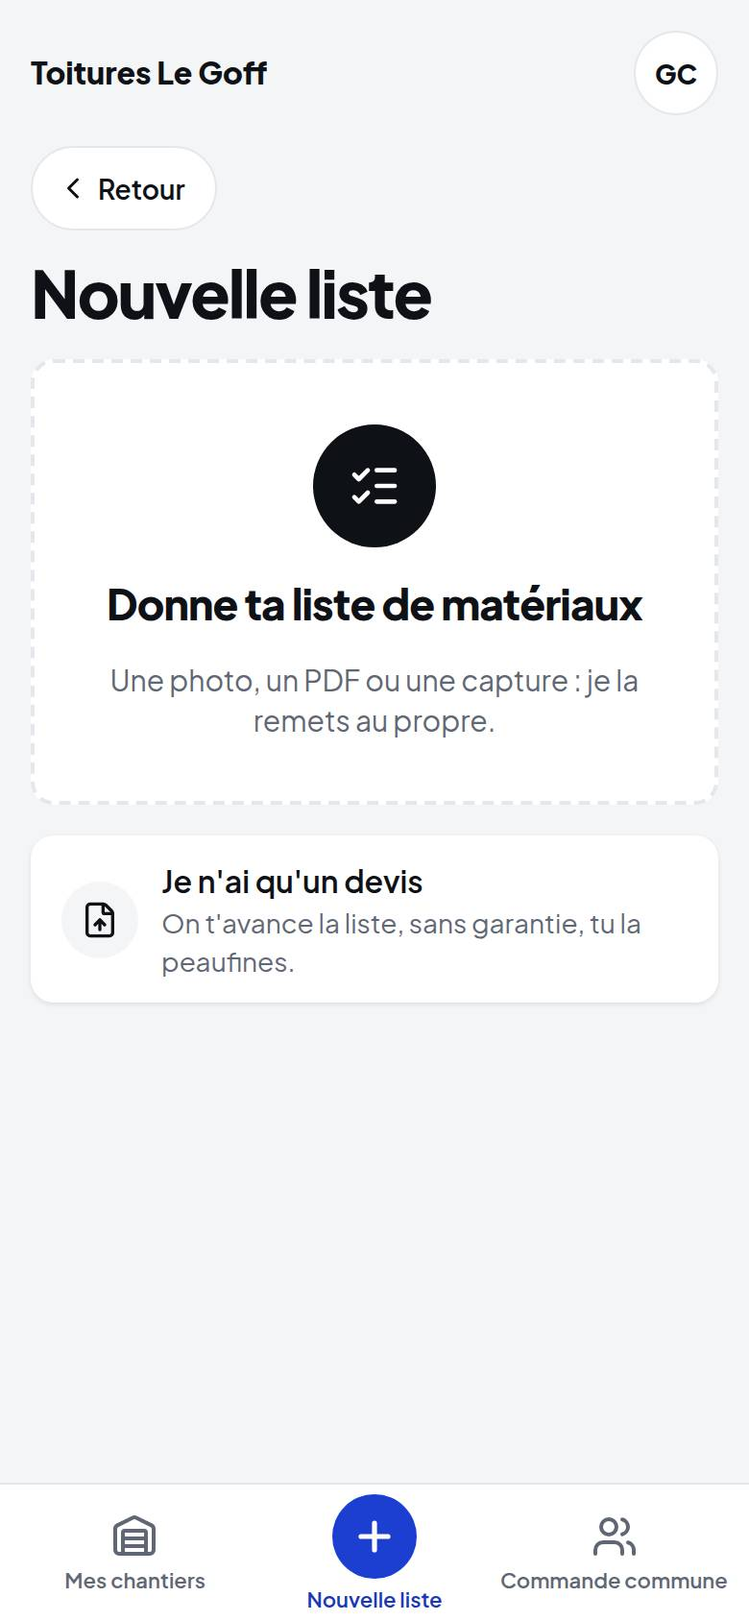
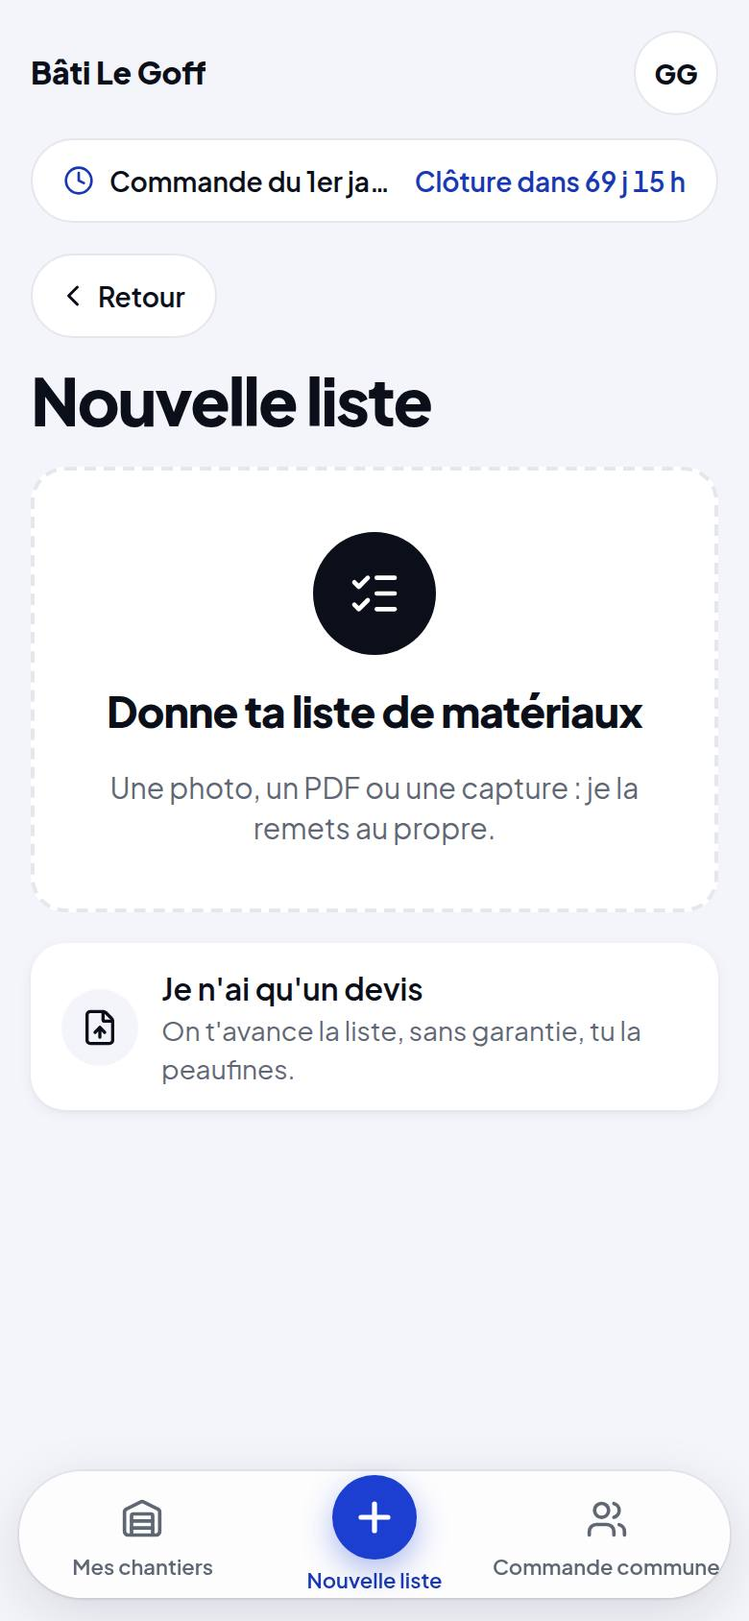
Landing : le nécessaire, neutre sur le métier, captures refaites
Greg, 23 octobre au soir : « trop de texte, laisse le nécessaire » puis
« tu parles encore de couvreur, reste neutre ».

- Six blocs courts : accroche et une phrase, principe et compteur, trois
  étapes en une ligne, partage, un titre et un bouton, une ligne négoces.
  Retirés : « Rassemblons-nous… », l'intro des étapes, la section exemple
  d'ardoise, la section « ensemble », le paragraphe et la ligne des métiers.
- Quatre captures neutres (accueil, nouvelle liste, commande commune, prix
  reçus) faites sur un cycle joué par script avec une liste sans métier ;
  textes alternatifs neutres.
- e2e de la landing adapté ; DECISIONS.

Claude-Session: https://claude.ai/code/session_0188g8PcmvctNcTq82VPRdt3

diff --git a/baticlair/apps/web/src/app/(public)/decouvrir/page.tsx b/baticlair/apps/web/src/app/(public)/decouvrir/page.tsx
@@ -1,11 +1,8 @@
 import type { Metadata } from "next";
 import Link from "next/link";
 import { CLE_DEMO_VUE, DemoGuidee } from "@/components/demo-guidee";
-import { EXEMPLE } from "@/lib/exemple";
 import { ButtonLink } from "@/components/ui";
 import { LiensLegaux } from "@/components/legal";
-import { PHOTOS_LANDING, Visuel, type EmplacementPhoto } from "@/components/landing-illustrations";
-import { NOM } from "@/lib/nom";
 import { CompteurInscrits, InviterCollegue } from "@/components/inviter";
 
 /**
@@ -15,7 +12,7 @@ import { CompteurInscrits, InviterCollegue } from "@/components/inviter";
 export const dynamic = "force-dynamic";
 
 export const metadata: Metadata = {
-  title: "BatiClair, la commande commune des couvreurs",
+  title: "BatiClair, la commande commune des artisans du bâtiment",
   description: "Marre de te faire enfumer sur le prix de tes matériaux ? Rassemblons-nous et mettons nos forces en commun pour négocier les meilleurs prix.",
 };
 
@@ -29,6 +26,9 @@ export const metadata: Metadata = {
  * neutres pour les photos de chantier de Greg (`PHOTOS_LANDING`, une ligne par photo). Une seule liste fictive sur toute
  * la page, celle de la démo (`EXEMPLE`) : mêmes articles, mêmes chiffres. Aucune ressource extérieure, aucun script.
  *
+ * MOINS DE TEXTE (Greg, 23 octobre au soir : « trop de texte, laisse le nécessaire ») : l'accroche et une phrase, le
+ * principe et le compteur, trois étapes en une ligne chacune, le partage, un titre et un bouton, une ligne pour les
+ * négoces. L'exemple de liste et la section « ensemble » sont retirés (redondants avec les étapes).
  * TON FUN ET DIRECT (Greg, 22 octobre) : « fun dans les mots, pro dans le visuel ». « Enfumer » vise le prix, jamais une
  * personne : les négoces lisent aussi la page, et ce sont eux qui répondent. Le compteur d'inscrits est le vrai chiffre de la
  * base (masqué sous 10), le partage passe par WhatsApp, SMS ou le lien copié (`InviterCollegue`). Gratuit pour l'artisan.
@@ -36,25 +36,18 @@ export const metadata: Metadata = {
 const ETAPES = [
   {
     titre: "1. Dépose ta liste avant la clôture",
-    texte: "Une photo, un bon, un PDF ou une capture. Mets seulement ce que tu es sûr de commander.",
-    image: { src: "/landing/capture-entree.jpg", alt: "L'écran « Donne ta liste de matériaux » de BatiClair" },
+    texte: "Une photo, un bon ou un PDF.",
+    image: { src: "/landing/capture-entree.jpg", alt: "L'écran « Nouvelle liste » de BatiClair" },
   },
   {
     titre: "2. On envoie tout le volume aux négoces",
-    texte: "Les listes de la quinzaine sont additionnées : une seule grille pour tous les négoces de la région.",
-    image: { src: "/landing/capture-preciser.jpg", alt: "Une ligne « Ardoise naturelle 32×22 » à préciser : origine et choix en boutons" },
+    texte: "Une seule grille pour tous les négoces de ta région.",
+    image: { src: "/landing/capture-commande.jpg", alt: "L'écran « Commande commune » de BatiClair : la clôture dans quelques jours, ta liste dans la commande" },
   },
-  { titre: "3. Tu vois le meilleur prix et tu commandes si ça te plaît", texte: "Ton prix livré chez chaque négoce, le moins cher en avant. Sans engagement.", image: null },
+  { titre: "3. Tu vois le meilleur prix et tu commandes si ça te plaît", texte: "Ton prix livré chez chaque négoce. Sans engagement.", image: { src: "/landing/capture-prix.jpg", alt: "L'écran des prix reçus dans BatiClair : ton prix livré chez chaque négoce, le moins cher coché" } },
 ] as const;
 
-const GROUPE = [
-  { titre: "Une commande toutes les deux semaines", texte: "Tu déposes ta liste jusqu'à la clôture, le 1er et le 15 à midi. Personne ne voit ton nom ni tes chantiers." },
-  { titre: "Les négoces chiffrent tout le volume", texte: "Un prix par article, le même pour tous, ferme pour la commande. Ils ont cinq jours ouvrés." },
-  { titre: "Le moins cher pour toi, livraison comprise", texte: "Chaque grille est appliquée à ta liste. Tu choisis, ou tu ne commandes pas." },
-];
 
-const COMMANDE = EXEMPLE.commande;
-const PHRASE_COMMANDE = `${COMMANDE.tout}. ${COMMANDE.cloture}.`;
 
 /**
  * Le cadre d'un iPhone propre autour d'une VRAIE capture de l'app (780 × 1688, prise sur iPhone après la passe UI/UX) :
@@ -72,31 +65,7 @@ function Telephone({ src, alt, priorite = false, className = "" }: { src: string
   );
 }
 
-/**
- * Un emplacement de photo de chantier : rien tant que la photo n'est pas fournie (Greg, 23 octobre : « pas normal
- * d'avoir des zones blanches »), la photo recadrée dès qu'elle est dans `PHOTOS_LANDING`.
- */
-function Photo({ emplacement, className }: { emplacement: EmplacementPhoto; className: string }) {
-  if (!PHOTOS_LANDING[emplacement]) return null;
-  return (
-    <Visuel emplacement={emplacement} className={`${className} rounded-xl`}>
-      <span aria-hidden="true" data-photo={emplacement} />
-    </Visuel>
-  );
-}
-const avecPhoto = (emplacement: EmplacementPhoto) => Boolean(PHOTOS_LANDING[emplacement]);
 
-/** Le compteur de la commande commune, tel que l'artisan le voit (données de la démo) : façon Qonto, un chiffre, une phrase. */
-function Compteur() {
-  return (
-    <div role="img" aria-label={PHRASE_COMMANDE} className="flex h-full flex-col justify-center gap-4 rounded-xl border border-line bg-surface p-6">
-      <p className="text-[13px] font-semibold text-muted">{`Exemple · Commande ${COMMANDE.de}`}</p>
-      <p className="text-[32px] leading-none font-extrabold tracking-[-0.03em] text-accent-text">{COMMANDE.cloture}</p>
-      <p className="text-[16px] leading-snug font-semibold">{COMMANDE.tout}</p>
-      <p className="border-t border-line pt-4 text-[14px] text-muted">{COMMANDE.toi}</p>
-    </div>
-  );
-}
 
 const BOUTON = "min-h-13 px-8 text-[16px]";
 
@@ -105,7 +74,6 @@ const REVEAL_SCRIPT = `(function(){try{if(matchMedia("(prefers-reduced-motion: r
 
 export default function BienvenuePage() {
   const h2 = "text-[34px] leading-[1.04] font-extrabold tracking-[-0.035em] sm:text-[48px]";
-  const intro = "max-w-[52ch] text-[18px] leading-relaxed text-muted";
   return (
     <main className="mx-auto flex w-full max-w-6xl flex-col gap-24 px-4 pt-6 pb-16 sm:gap-32 sm:px-6 sm:pt-12 lg:gap-40">
       {/* Plan 2, bloc 3 : au premier lancement, la démo guidée (trois écrans, « Passer ») vient avant l'accroche. Plan
@@ -121,14 +89,11 @@ export default function BienvenuePage() {
       {/* L'accroche (façon Stripe) : la promesse à gauche, en très grand ; l'app dans un iPhone à droite. */}
       <section aria-labelledby="accroche" className="grid grid-cols-1 items-center gap-12 lg:grid-cols-12 lg:gap-8">
         <div className="flex flex-col gap-8 lg:col-span-7">
-          <p className="text-[14px] font-semibold text-accent-text">Pour les couvreurs des Côtes-d&apos;Armor</p>
+          <p className="text-[14px] font-semibold text-accent-text">Pour les artisans du bâtiment, Côtes-d&apos;Armor d&apos;abord</p>
           <h1 id="accroche" className="max-w-[16ch] text-[44px] leading-[1.0] font-extrabold tracking-[-0.045em] sm:text-[64px]">
             Marre de te faire enfumer sur le prix de tes matériaux ?
           </h1>
-          <div className="flex flex-col gap-4">
-            <p className="max-w-[44ch] text-[18px] leading-relaxed text-muted sm:text-[20px]">Rassemblons-nous et mettons nos forces en commun pour négocier les meilleurs prix.</p>
-            <p className="max-w-[44ch] text-[18px] leading-relaxed font-semibold sm:text-[20px]">Une commande toutes les deux semaines avec les couvreurs de ta région.</p>
-          </div>
+          <p className="max-w-[40ch] text-[18px] leading-relaxed text-muted sm:text-[20px]">Une commande toutes les deux semaines avec les artisans de ton métier, dans ta région.</p>
           <div className="flex flex-wrap items-center gap-x-8 gap-y-4">
             <ButtonLink href="/inscription" variant="accent" className={BOUTON}>
               Je rejoins le mouvement
@@ -140,7 +105,7 @@ export default function BienvenuePage() {
           <p className="text-[15px] font-semibold text-muted">Gratuit pour l&apos;artisan. Sans engagement.</p>
         </div>
         <div className="flex justify-center lg:col-span-5 lg:justify-end">
-          <Telephone src="/landing/capture-liste.jpg" alt="Une liste de couverture dans BatiClair : ardoise, crochets, liteaux, écran, faîtage zinc, chaque ligne avec sa quantité" priorite className="w-[280px] sm:w-[320px]" />
+          <Telephone src="/landing/capture-accueil.jpg" alt="L'accueil de BatiClair : la commande commune en cours et le temps qui reste avant la clôture" priorite className="w-[280px] sm:w-[320px]" />
         </div>
       </section>
 
@@ -158,13 +123,12 @@ export default function BienvenuePage() {
           <h2 id="comment-titre" className={h2}>
             Comment ça marche
           </h2>
-          <p className={intro}>Trois étapes. Le reste, c&apos;est nous : on additionne les listes, on interroge les négoces, on compare.</p>
         </div>
         <ol className="-mx-4 flex snap-x snap-mandatory gap-6 overflow-x-auto px-4 pb-2 sm:mx-0 sm:grid sm:grid-cols-3 sm:gap-8 sm:overflow-visible sm:px-0">
           {ETAPES.map((e, i) => (
             <li key={e.titre} data-reveal className="flex w-[80vw] max-w-[340px] shrink-0 snap-center flex-col gap-6 sm:w-auto sm:max-w-none">
               <div className="flex min-h-[560px] items-center justify-center rounded-xl bg-ground px-8 py-8">
-                {e.image ? <Telephone src={e.image.src} alt={e.image.alt} className="w-full max-w-[240px]" /> : <Compteur />}
+                <Telephone src={e.image.src} alt={e.image.alt} className="w-full max-w-[240px]" />
               </div>
               <div className="flex flex-col gap-2">
                 <p className="text-[13px] font-semibold text-accent-text tabular-nums">0{i + 1}</p>
@@ -176,83 +140,23 @@ export default function BienvenuePage() {
         </ol>
       </section>
 
-      {/* Ce que commande un couvreur : la liste de l'exemple, telle qu'elle part au négoce. */}
-      <section aria-labelledby="fournitures" data-reveal className="grid grid-cols-1 gap-10 lg:grid-cols-12 lg:gap-12">
-        <div className={`flex flex-col gap-8 ${avecPhoto("ardoise") ? "lg:col-span-7" : "lg:col-span-8"}`}>
-          <div className="flex flex-col gap-4">
-            <h2 id="fournitures" className={h2}>
-              Ardoise, zinc, liteaux, écran
-            </h2>
-            <p className={intro}>Chaque ligne part au négoce comme tu la lui dirais au comptoir.</p>
-          </div>
-          <ul aria-label="Exemple de liste de couverture" className="flex flex-col divide-y divide-line border-y border-line">
-            {EXEMPLE.liste.map((l) => (
-              <li key={l.designation} className="flex items-baseline justify-between gap-4 py-4">
-                <span className="text-[16px] font-semibold">{l.designation}</span>
-                <span className="shrink-0 text-[15px] text-muted tabular-nums">{l.quantite}</span>
-              </li>
-            ))}
-          </ul>
-        </div>
-        {avecPhoto("ardoise") ? (
-          <div className="lg:col-span-5">
-            <Photo emplacement="ardoise" className="aspect-[4/3] w-full lg:aspect-auto lg:h-full" />
-          </div>
-        ) : null}
-      </section>
-
-      {/* La commande commune : texte et compteur, sur le fond gris 1 (le seul aplat de la page avec la section noire). */}
-      <section aria-labelledby="groupe" data-reveal className="rounded-xl bg-ground p-6 sm:p-12 lg:p-16">
-        <div className="grid grid-cols-1 gap-10 lg:grid-cols-12 lg:gap-12">
-          <div className="flex flex-col gap-8 lg:col-span-7">
-            <div className="flex flex-col gap-4">
-              <p className="text-[14px] font-semibold text-accent-text">{NOM}</p>
-              <h2 id="groupe" className={`${h2} max-w-[18ch]`}>
-                Les couvreurs de ton secteur, ensemble
-              </h2>
-              <p className={intro}>Plus on est nombreux sur la même ligne, plus les négoces se battent pour la livrer. Tu commandes sur ton compte, comme d&apos;habitude.</p>
-            </div>
-            <ol className="flex flex-col divide-y divide-line">
-              {GROUPE.map((e, i) => (
-                <li key={e.titre} className="flex gap-6 py-6 first:pt-0 last:pb-0">
-                  <span className="pt-1 text-[14px] font-semibold text-accent-text tabular-nums" aria-hidden="true">
-                    0{i + 1}
-                  </span>
-                  <div className="flex flex-col gap-1">
-                    <h3 className="text-[18px] leading-snug font-extrabold tracking-[-0.01em]">{e.titre}</h3>
-                    <p className="text-[16px] leading-relaxed text-muted">{e.texte}</p>
-                  </div>
-                </li>
-              ))}
-            </ol>
-          </div>
-          <div className="flex flex-col gap-6 lg:col-span-5">
-            <Compteur />
-            <Photo emplacement="chantier" className="aspect-[16/10] w-full" />
-          </div>
-        </div>
-      </section>
-
       {/* Le partage : une vraie section, pleine et sombre (façon Revolut). Le même bloc vit dans l'app. */}
       <div data-reveal>
-        <InviterCollegue grand titre="L'union fait la force : fais venir tes collègues" texte="Plus on est nombreux dans le secteur, plus les prix baissent. Envoie-leur le lien en deux secondes." />
+        <InviterCollegue grand titre="Fais venir tes collègues" texte="Plus on est nombreux, plus les prix baissent." />
       </div>
 
       <section aria-labelledby="commencer" data-reveal className="flex flex-col items-start gap-8 border-t border-line pt-16 sm:items-center sm:pt-24 sm:text-center">
         <h2 id="commencer" className="max-w-[18ch] text-[40px] leading-[1.02] font-extrabold tracking-[-0.04em] sm:text-[56px]">
-          Rejoins les couvreurs du secteur
+          Rejoins les artisans du secteur
         </h2>
-        <p className="max-w-[44ch] text-[18px] leading-relaxed text-muted">Un compte, une photo de ta liste, et les négoces de ton secteur se mettent au travail. Gratuit pour l&apos;artisan.</p>
         <ButtonLink href="/inscription" variant="accent" className={BOUTON}>
           Je rejoins le mouvement
         </ButtonLink>
-        {/* Tous les métiers restent ouverts (nouveau cap) : une ligne. */}
-        <p className="text-[15px] text-muted">Aussi pour la charpente, la maçonnerie, l&apos;isolation…</p>
       </section>
 
       {/* Rassurant pour les négoces : ils lisent aussi la page, et ce sont eux qui répondent. */}
       <p className="text-center text-[15px] leading-relaxed text-muted">
-        <span className="font-semibold text-ink">Négoces :</span> des commandes communes, des volumes sûrs. Répondez aux demandes, on vous apporte les clients.
+        <span className="font-semibold text-ink">Négoces :</span> des volumes sûrs, des clients en plus. Répondez aux grilles.
       </p>
 
       <footer className="flex flex-col gap-6 border-t border-line pt-10 text-[13px] leading-relaxed text-muted">

diff --git a/baticlair/apps/web/e2e/parcours-artisan.spec.ts b/baticlair/apps/web/e2e/parcours-artisan.spec.ts
@@ -2373,13 +2373,13 @@ test("Mets ton négoce dans la boucle (Greg, 23 octobre) : un e-mail, un bouton,
   await expect(ligne).toContainText("Ton négoce negoce-du-ponant.fr est dans la boucle : il recevra la commande d");
   const prevenir = bloc.getByRole("group", { name: "Prévenir negoce-du-ponant.fr" });
   // Le lien du message est l'invitation du négoce (espace négoce, 23 octobre) : `/negoce/rejoindre/<jeton>`, jamais le nom de l'artisan.
-  const message = await prevenir.getByText(/^Bonjour, je passe par BatiClair pour commander mes matériaux groupés avec d'autres couvreurs\. Vous pouvez chiffrer tout le volume de la commande ici : /).textContent();
+  const message = await prevenir.getByText(/^Bonjour, je passe par BatiClair pour commander mes matériaux groupés avec d'autres artisans de mon métier\. Vous pouvez chiffrer tout le volume de la commande ici : /).textContent();
   expect(message).toMatch(new RegExp(`ici : ${new URL(page.url()).origin}/negoce/rejoindre/[A-Za-z0-9_.-]+$`));
   expect(message).not.toContain("Toitures Martin");
   await expect(prevenir.getByRole("link", { name: "Envoyer sur WhatsApp" })).toHaveAttribute("href", `https://wa.me/?text=${encodeURIComponent(message!)}`);
   await expect(prevenir.getByRole("link", { name: "Envoyer par SMS" })).toHaveAttribute("href", `sms:?&body=${encodeURIComponent(message!)}`);
   // Le négoce a reçu son invitation, vouvoyée, sans le nom de l'artisan.
-  await expect.poll(async () => (await emailsVers(page, email.toLowerCase())).map((m) => m.subject)).toContainEqual("Un regroupement de couvreurs vous a ajouté à la Commande commune : créez votre accès");
+  await expect.poll(async () => (await emailsVers(page, email.toLowerCase())).map((m) => m.subject)).toContainEqual("Un regroupement d'artisans vous a ajouté à la Commande commune : créez votre accès");
   expect((await emailsVers(page, email.toLowerCase())).map((m) => m.text).join("\n")).not.toContain("Toitures Martin");
   await expect(prevenir.getByRole("button", { name: "Copier le message" })).toBeVisible();
   // Rappuyer avec le même e-mail (autre casse) : toujours un seul négoce.
@@ -2431,28 +2431,24 @@ test("La page d'accueil publique : un visiteur la voit à la racine, un artisan 
   await page.getByRole("button", { name: "Passer" }).click();
   // Landing du 22 octobre (Greg) : ton fun et direct, visuel pro ; « enfumer » vise le prix ; le principe en une phrase ;
   // trois étapes ; gratuit pour l'artisan ; les autres métiers en une ligne ; une ligne pour les négoces. Rien d'extérieur.
-  await expect(page.getByText("Rassemblons-nous et mettons nos forces en commun pour négocier les meilleurs prix.")).toBeVisible();
   await expect(page.getByRole("heading", { name: "Plus on est nombreux, plus on pèse face aux négoces." })).toBeVisible();
   await expect(page.getByRole("heading", { name: "Comment ça marche" })).toBeVisible();
-  await expect(page.getByText("Une commande toutes les deux semaines avec les couvreurs de ta région.")).toBeVisible();
+  await expect(page.getByText("Une commande toutes les deux semaines avec les artisans de ton métier, dans ta région.")).toBeVisible();
   for (const etape of ["1. Dépose ta liste avant la clôture", "2. On envoie tout le volume aux négoces", "3. Tu vois le meilleur prix et tu commandes si ça te plaît"]) {
     await expect(page.getByRole("heading", { name: etape })).toBeVisible();
   }
   // Registre pro (Greg, 22 octobre) : de vraies captures de l'app, aucun dessin ; une seule liste fictive, mêmes chiffres partout.
-  for (const image of ["L'écran « Donne ta liste de matériaux » de BatiClair", /^Une ligne « Ardoise naturelle 32×22 » à préciser/, "Toute la commande du 1er novembre : 52 palettes d'ardoises 32×22, 6 000 m de liteaux. Clôture dans 9 j."]) {
+  for (const image of ["L'écran « Nouvelle liste » de BatiClair", /^L'écran « Commande commune » de BatiClair/, /^L'écran des prix reçus dans BatiClair/]) {
     await expect(page.getByRole("region", { name: "Comment ça marche" }).getByRole("img", { name: image })).toBeVisible();
   }
-  await expect(page.getByRole("list", { name: "Exemple de liste de couverture" })).toContainText("Ardoise naturelle 32×22 Espagne 1er choix2 760 pièces");
   await expect(page.getByText(/tuile/i)).toHaveCount(0);
   await expect(page.locator("main svg")).toHaveCount(0);
-  await expect(page.getByRole("heading", { name: "Les couvreurs de ton secteur, ensemble" })).toBeVisible();
-  await expect(page.getByText("Aussi pour la charpente, la maçonnerie, l'isolation…")).toBeVisible();
   await expect(page.getByText(/2 %|abonnement/)).toHaveCount(0);
   await expect(page.getByText("Gratuit pour l'artisan. Sans engagement.")).toBeVisible();
   await expect(page.getByRole("link", { name: "Je rejoins le mouvement" })).toHaveCount(2);
-  await expect(page.getByText("des commandes communes, des volumes sûrs. Répondez aux demandes, on vous apporte les clients.")).toBeVisible();
+  await expect(page.getByText("des volumes sûrs, des clients en plus. Répondez aux grilles.")).toBeVisible();
   // Le partage : WhatsApp et SMS avec le message prérempli, et le lien à copier.
-  const partage = page.getByRole("region", { name: "L'union fait la force : fais venir tes collègues" });
+  const partage = page.getByRole("region", { name: "Fais venir tes collègues" });
   const message = /^Je me suis inscrit sur BatiClair, on regroupe nos commandes de matériaux pour payer moins cher\. Plus on est nombreux, plus on négocie\. Rejoins-nous : http/;
   await expect(partage.getByText(message)).toBeVisible();
   const whatsapp = decodeURIComponent((await partage.getByRole("link", { name: "Envoyer sur WhatsApp" }).getAttribute("href"))!.replace(/^https:\/\/wa\.me\/\?text=/, ""));
@@ -2460,9 +2456,9 @@ test("La page d'accueil publique : un visiteur la voit à la racine, un artisan 
   expect(await partage.getByRole("link", { name: "Envoyer par SMS" }).getAttribute("href")).toMatch(/^sms:\?&body=Je%20me%20suis%20inscrit/);
   await expect(partage.getByRole("button", { name: "Copier le lien" })).toBeVisible();
   // Le compteur d'inscrits : le vrai chiffre de la base (test API), masqué sous 10 ; jamais un chiffre inventé.
-  const compteur = (await (await page.request.get("/v1/public/compteur")).json()) as { couvreurs: number | null };
-  if (compteur.couvreurs === null) await expect(page.getByText(/couvreurs déjà inscrits/)).toHaveCount(0);
-  else await expect(page.getByRole("status", { name: `${compteur.couvreurs} couvreurs déjà inscrits dans les Côtes-d'Armor` })).toBeVisible();
+  const compteur = (await (await page.request.get("/v1/public/compteur")).json()) as { artisans: number | null };
+  if (compteur.artisans === null) await expect(page.getByText(/artisans déjà inscrits/)).toHaveCount(0);
+  else await expect(page.getByRole("status", { name: `${compteur.artisans} artisans déjà inscrits dans les Côtes-d'Armor` })).toBeVisible();
   await expect(page.getByText(/BATI INVEST, SARL, SIRET 910 796 325 00017/)).toBeVisible();
   await expect(page.getByRole("link", { name: "Confidentialité" })).toHaveAttribute("href", "/confidentialite");
   const externes = await page.evaluate(() => [...document.querySelectorAll("script[src], img, link[rel=stylesheet], iframe")].map((e) => (e as HTMLElement).getAttribute("src") ?? (e as HTMLElement).getAttribute("href") ?? "").filter((u) => /^https?:\/\//.test(u)));
@@ -2877,7 +2873,7 @@ async function listePrete(page: Page, adresse: string, lignes: { libelle: string
 async function ajouterAuMois(page: Page, projectId: string, nature: "Un chantier signé" | "Du stock"): Promise<void> {
   await page.goto(`/chantiers/${projectId}`);
   const bloc = page.getByRole("region", { name: /^Commande commune d/ });
-  await expect(bloc.getByText("Une commande toutes les deux semaines avec les couvreurs de ta région.")).toBeVisible();
+  await expect(bloc.getByText("Une commande toutes les deux semaines avec les artisans de ta région.")).toBeVisible();
   await expect(bloc.getByText(/^Clôture dans \d+ j/)).toBeVisible();
   await bloc.getByRole("button", { name: /^Ajouter à la commande d/ }).click();
   const list = page.getByRole("region", { name: "Liste des fournitures" });
@@ -2905,7 +2901,7 @@ async function tacheDuMois(page: Page, maintenant: string): Promise<Record<strin
  */
 async function accesNegoceCree(browser: Browser, page: Page, email: string, enseigne: string, depot: string, livraison: [string, string]) {
   const mail = (await emailsVers(page, email)).filter((m) => /\/negoce\/rejoindre\//.test(m.text)).at(-1)!;
-  expect(mail.subject).toBe("Un regroupement de couvreurs vous a ajouté à la Commande commune : créez votre accès");
+  expect(mail.subject).toBe("Un regroupement d'artisans vous a ajouté à la Commande commune : créez votre accès");
   expect(mail.text).toContain("Un artisan de votre secteur (22) vous a ajouté");
   expect(mail.text).not.toMatch(/Toitures [ABC]/);
   const lien = /https?:\/\/[^\s]+\/negoce\/rejoindre\/[A-Za-z0-9_.-]+/.exec(mail.text)![0]!.replace(/^https?:\/\/[^/]+/, "");

diff --git a/baticlair/docs/DECISIONS.md b/baticlair/docs/DECISIONS.md
@@ -88,3 +88,6 @@ Greg tranche après coup. Une ligne par décision : date, question, choix, pourq
 | 2026-10-23 | Greg : espace négoce autonome (invitation, inscription, abonnement à la zone, dépôts et paliers, confidentialité, prix fermes, grille garantie 30 jours, conditions, admin). | Modèle : `CompteNegoce` (e-mail, SIRET, enseigne, téléphone, paliers, conditions acceptées et leur version, désabonnement), `DepotNegoce` (1 à n, géocodés), une ligne `Negoce` par département = un abonnement (`compteId`, `stopLe`), `GrilleNegoce.nonGarantis` et `livraison` figée (dépôts, paliers, distance du dépôt le plus proche à chaque chantier), `CycleCommande.retenuId` et `garantieJusquau`, `CommandeGarantie`. Domaine `espace-negoce.ts` ; API `EspaceNegoceService` (`/v1/negoce/*`), jetons HMAC `jetons-negoce.ts` ; web `/negoce`, `/negoce/rejoindre/<jeton>`, `/negoce/connexion`, `/negoce/conditions`, `/negoce/desabonner/<jeton>`. Migration `20261023150000_espace_negoce` : les anciennes livraisons (`depart`, `francoKm`, `prixAuDela`) deviennent un dépôt et un palier unique jusqu'à 1 000 km. | Greg, 23 octobre : « je n'interviens jamais entre artisan et négoce ». Rien n'est supprimé : l'ancien lot (`lots`) garde ses pages. |
 | 2026-10-23 | Espace négoce — mes choix, à trancher si besoin. | (1) Un dépôt de grille exige un compte inscrit (dépôts et paliers) : sans lui, la page de grille montre « Créez votre accès pour chiffrer » et l'API répond 409 `inscription_requise` ; l'invité jamais inscrit reçoit le rappel de clôture trois cycles au plus. (2) Distance inconnue (adresse non géocodée) : le dernier palier payant s'applique ; sans palier payant, le négoce ne livre pas cette zone. (3) Départements cochés = ceux des dépôts (code postal) plus ceux où un artisan l'a ajouté ; pas de calcul par distance maximale. (4) Un négoce « ne livre pas ta zone » reste listé (barré, non choisissable) et passe derrière au classement. (5) Le SIRET est cherché dans la base Sirene locale puis vérifié à l'INSEE quand l'INSEE est branché ; laissé vide, l'inscription passe (dédoublonnage par e-mail). (6) L'e-mail d'invitation part au plus une fois par semaine par négoce, même si trente artisans l'ajoutent ; le lien, lui, se régénère à chaque ajout. (7) La recommande sur grille garantie ne crée pas de chantier : le bon part, la commande est listée sous le bloc garanti ; l'adresse de livraison est saisie à la commande. (8) L'ancien e-mail « Regroupement artisans » aux négoces sans compte est remplacé par l'invitation. (9) La garantie court 30 jours après la publication des résultats, sur les seules lignes garanties de la grille retenue ; elle vaut aussi pour un artisan qui n'avait rien déposé. (10) Le message « Mets ton négoce dans la boucle » porte le lien d'invitation (le même pour tous les artisans), plus la racine du site. | Chaque point est un choix fait seul faute de réponse ; la liste est dans le rapport. |
 | 2026-10-23 | Greg, 18 h 52, capture iPhone de l'accueil : « ça manque de couleur, de contraste ; quelque chose de 2026, tendance, classe et épuré ». Une première proposition (carte bleu nuit) refusée : « inspire-toi de choses tendance et modernes ». | Ce que font Revolut, Lydia, Alan et iOS 26 en 2026 : du clair, des teintes pastel en tuiles (« bento »), de grands rayons, une barre flottante en verre. Donc : quatre teintes pastel (ciel, lavande, menthe, pêche) pour les tuiles et les pastilles, un halo pastel très doux sur la carte héros (chrono 56 px, pilule « Clôture dans », étapes sur pastilles colorées, « Toi » en menthe, « Toute la commande » en pêche), « Mets ton négoce dans la boucle » en lavande, rayons 18 / 24 px, fond très légèrement bleuté, barre du bas en capsule translucide floutée à 12 px du bas avec l'onglet actif sur une pastille. Une seule couleur de marque toujours ; les teintes ne disent jamais un état. | Les tests ne changent pas : la barre reste `position: fixed; bottom: 0` (la marge est dedans), les régions et les textes sont les mêmes. Le halo est la seule entorse à « zéro dégradé » (23 octobre matin, qui visait les boutons) : il reste dans une carte, jamais sur un bouton. |
+| 2026-10-23 | Greg, au soir : « Enlève tout ça, on va faire en multimétier. Y a peut-être que la pub que j'orienterai pour quelques métiers comme couvreur. Vu qu'on ne promet plus un quantitatif précis, ça peut faire le job. » | Plus rien de propre aux couvreurs dans la commande commune : la commande d'une entreprise est celle de la famille de son métier (`familleDeLEntreprise` : couverture pour un couvreur, électricité pour un électricien… ; couverture sans métier connu) dans son département ; un négoce « mis dans la boucle » entre dans les familles du métier de l'artisan ; un compte négoce hérite des familles de ses lignes ; les textes disent « artisans » (app, mails, landing : « Pour les artisans du bâtiment, Côtes-d'Armor d'abord », « avec les artisans de ton métier, dans ta région », « Les artisans de ton secteur, ensemble ») ; le compteur public compte toutes les entreprises du 22, tous métiers (`artisans`). Le design pastel reste. | Mes choix : la famille vient du métier déclaré au compte (pas des mots de la liste) pour l'affichage, le dépôt garde la famille lue sur chaque ligne ; sans métier, couverture. L'exemple de liste de la landing (ardoise, liteaux) reste un exemple de couvreur, à remplacer quand la pub visera un autre métier. |
+| 2026-10-23 | Greg, au soir : « trop de texte sur la landing, laisse le nécessaire ». | La landing tient en six blocs courts : l'accroche et une phrase (« Une commande toutes les deux semaines avec les artisans de ton métier, dans ta région. »), le principe en une ligne et le compteur, trois étapes en une ligne chacune, le partage (« Fais venir tes collègues »), un titre et un bouton, une ligne pour les négoces. Retirés : le paragraphe « Rassemblons-nous… », l'intro de « Comment ça marche », la section « Ardoise, zinc, liteaux, écran » (exemple de couvreur, redondant et plus multimétier), la section « Les artisans de ton secteur, ensemble » (redite des étapes), le paragraphe et la ligne des métiers sous « Rejoins les artisans du secteur ». | Chaque bloc dit une chose ; ce qui est dit deux fois est dit une fois. Les emplacements photo de la section retirée partent avec elle (`PHOTOS_LANDING` reste pour les autres). |
+| 2026-10-23 | Greg, au soir : « tu parles encore de couvreur ! reste neutre ». | Les quatre captures de la landing sont refaites sur un cycle joué par script avec une liste sans métier (vis inox, panneaux OSB, mousse PU) : l'accueil (chrono), « Nouvelle liste », l'onglet « Commande commune », les prix reçus ; textes alternatifs neutres ; plus d'image de liste d'ardoise ni de ligne « à préciser ». L'accroche de l'onglet sans métier connu dit « artisans » ; le bloc « boucle » liste les négoces de toutes les familles. La démo guidée (« données fictives ») reste un exemple d'une liste de couvreur : à décliner par métier si la pub le demande. | Une capture d'écran est un texte comme un autre : elle doit être neutre aussi. Script : `scratchpad/captures-neutres.mts` (hors dépôt). |
